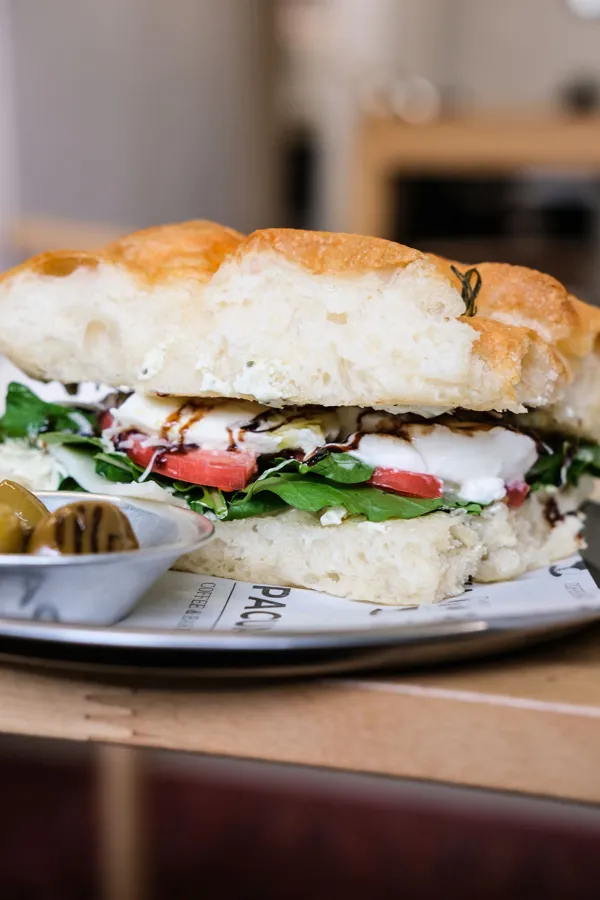
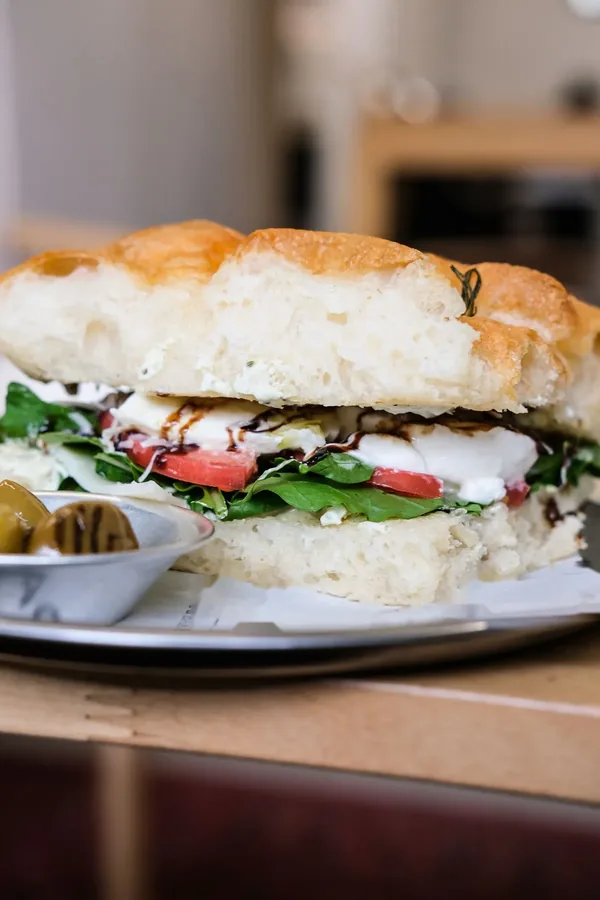
u'two onizleme: sandvic fotografindeki baska marka yazisi temizlendi, menu yer tutucu satirlari tek satira indirildi

diff --git a/onizleme/utwocoffee/profesyonel/index.html b/onizleme/utwocoffee/profesyonel/index.html
@@ -318,8 +318,8 @@ footer .sar{display:grid;gap:14px}
               <span class="ufak">01 · Focaccia</span>
               <h3>Focaccia</h3>
               <p class="a">Focaccia çeşitleri bu başlıkta, ürün ürün listelenir.</p>
-              <span class="ornek-baslik">örnek satırlar (sizin ürünleriniz yayında burada)</span>
-              <div class="ornek-liste"><div><b>Ürün adı</b><span>— ₺</span></div><div><b>Ürün adı</b><span>— ₺</span></div><div><b>Ürün adı</b><span>— ₺</span></div></div>
+              <span class="ornek-baslik">menü satırı (örnek)</span>
+              <div class="ornek-liste"><div><b>Ürünleriniz ve fiyatlarınız burada tek tek sıralanır</b><span>sizinle eklenir</span></div></div>
               <div class="dugmeler"><a class="btn koyu" data-ekle="focaccia" href="#siparis">Sipariş notuna ekle</a><a class="btn hat" data-sor="Focaccia" href="#">Bu başlığı sor</a></div>
             </div>
           </article>
@@ -329,8 +329,8 @@ footer .sar{display:grid;gap:14px}
               <span class="ufak">02 · Sandviç</span>
               <h3>Sandviç</h3>
               <p class="a">Sandviç çeşitleri ve içerikleri bu başlıkta listelenir.</p>
-              <span class="ornek-baslik">örnek satırlar (sizin ürünleriniz yayında burada)</span>
-              <div class="ornek-liste"><div><b>Ürün adı</b><span>— ₺</span></div><div><b>Ürün adı</b><span>— ₺</span></div><div><b>Ürün adı</b><span>— ₺</span></div></div>
+              <span class="ornek-baslik">menü satırı (örnek)</span>
+              <div class="ornek-liste"><div><b>Ürünleriniz ve fiyatlarınız burada tek tek sıralanır</b><span>sizinle eklenir</span></div></div>
               <div class="dugmeler"><a class="btn koyu" data-ekle="sandviç" href="#siparis">Sipariş notuna ekle</a><a class="btn hat" data-sor="Sandviç" href="#">Bu başlığı sor</a></div>
             </div>
           </article>
@@ -340,8 +340,8 @@ footer .sar{display:grid;gap:14px}
               <span class="ufak">03 · Hamburger</span>
               <h3>Hamburger</h3>
               <p class="a">Hamburger seçenekleri bu başlıkta listelenir.</p>
-              <span class="ornek-baslik">örnek satırlar (sizin ürünleriniz yayında burada)</span>
-              <div class="ornek-liste"><div><b>Ürün adı</b><span>— ₺</span></div><div><b>Ürün adı</b><span>— ₺</span></div><div><b>Ürün adı</b><span>— ₺</span></div></div>
+              <span class="ornek-baslik">menü satırı (örnek)</span>
+              <div class="ornek-liste"><div><b>Ürünleriniz ve fiyatlarınız burada tek tek sıralanır</b><span>sizinle eklenir</span></div></div>
               <div class="dugmeler"><a class="btn koyu" data-ekle="hamburger" href="#siparis">Sipariş notuna ekle</a><a class="btn hat" data-sor="Hamburger" href="#">Bu başlığı sor</a></div>
             </div>
           </article>
@@ -351,8 +351,8 @@ footer .sar{display:grid;gap:14px}
               <span class="ufak">04 · Kahvaltı</span>
               <h3>Kahvaltı</h3>
               <p class="a">Kahvaltı seçenekleri bu başlıkta listelenir.</p>
-              <span class="ornek-baslik">örnek satırlar (sizin ürünleriniz yayında burada)</span>
-              <div class="ornek-liste"><div><b>Ürün adı</b><span>— ₺</span></div><div><b>Ürün adı</b><span>— ₺</span></div><div><b>Ürün adı</b><span>— ₺</span></div></div>
+              <span class="ornek-baslik">menü satırı (örnek)</span>
+              <div class="ornek-liste"><div><b>Ürünleriniz ve fiyatlarınız burada tek tek sıralanır</b><span>sizinle eklenir</span></div></div>
               <div class="dugmeler"><a class="btn koyu" data-ekle="kahvaltı" href="#siparis">Sipariş notuna ekle</a><a class="btn hat" data-sor="Kahvaltı" href="#">Bu başlığı sor</a></div>
             </div>
           </article>
@@ -362,8 +362,8 @@ footer .sar{display:grid;gap:14px}
               <span class="ufak">05 · Kahve</span>
               <h3>Kahve</h3>
               <p class="a">Sıcak ve soğuk kahveler bu başlıkta listelenir.</p>
-              <span class="ornek-baslik">örnek satırlar (sizin ürünleriniz yayında burada)</span>
-              <div class="ornek-liste"><div><b>Ürün adı</b><span>— ₺</span></div><div><b>Ürün adı</b><span>— ₺</span></div><div><b>Ürün adı</b><span>— ₺</span></div></div>
+              <span class="ornek-baslik">menü satırı (örnek)</span>
+              <div class="ornek-liste"><div><b>Ürünleriniz ve fiyatlarınız burada tek tek sıralanır</b><span>sizinle eklenir</span></div></div>
               <div class="dugmeler"><a class="btn koyu" data-ekle="kahve" href="#siparis">Sipariş notuna ekle</a><a class="btn hat" data-sor="Kahve" href="#">Bu başlığı sor</a></div>
             </div>
           </article>
